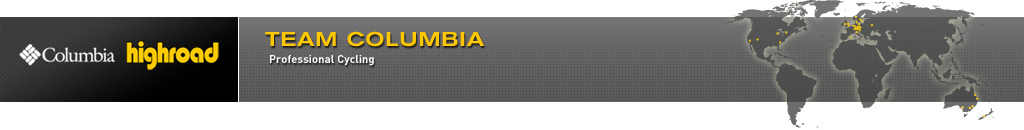
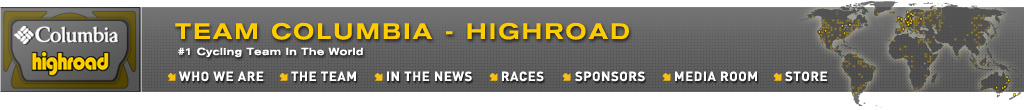
New Look with new nav buttons to match main site

diff --git a/assets/main.css b/assets/main.css
@@ -222,13 +222,19 @@ height:80px;
 
 #header {
 	width: 100%;
-	height: 130px;
+	height: 133px;
 	position:relative;
 	overflow:hidden;
 }
 
+#nav_topright{
+	height:17px;
+	padding-right:20px;
+	text-align:right;
+}
+
 #logo {
-	width: 236px;
+	width: 142px;
 	height: 100px;
 	display: block;
 	float: left;
@@ -243,9 +249,10 @@ height:80px;
 
 #nav {
 	width: 1024px;
-	height: 130px;
-	margin: 3px auto 0 auto;
-	background:#fff url( nav_bg.jpg) no-repeat;
+	height: 133px;
+	margin: 0px auto 0 auto;
+	background:#fff url(nav_bg.jpg) no-repeat;
+	background-position: 0px 17px;
 }
 
 #nav_container{
@@ -255,11 +262,11 @@ height:80px;
 
 #nav_bg_left, #nav_bg_right{
 	position:absolute;
-	top:3px;
+	top:7px;
 }
 
 #nav_bg_left{
-	background: url( nav_bg_tile_left.gif) top right repeat-x;
+	background: url(nav_bg_tile_right.gif) top right repeat-x;
 	right:50%;
 	width:50%;
 	margin-right:512px;
@@ -267,16 +274,18 @@ height:80px;
 }
 
 #nav_bg_right{
-	background: url( nav_bg_tile_right.gif) top left repeat-x;
+	background: url(nav_bg_tile_right.gif) top left repeat-x;
 	left:50%;
 	width:50%;
-	margin-left:511px;
+	margin-left:512px;
 	height:120px;
 }
 
 
 #nav_buttons {
-	padding: 76px 0 0 239px;
+	position:relative;
+	top:62px;
+	left:155px;
 }
 
 #nav_buttons div {
@@ -284,49 +293,34 @@ height:80px;
 }
 
 #nav_buttons a {
+	background-image: url(button_bar.jpg);	
 	display:block;
+	background-repeat:no-repeat;
+	background-position: 0px -100px;
 	height: 26px;
+
 }
 
-#nav_buttons a:hover, #nav_buttons .active {
-	background-position: 0 -26px;
-}
+#nav-mission { width:116px; }
+#nav-mission:hover { background-position: 11px 7px; }
 
-#nav-contact {
-	background-image: url( contact.jpg);
-	width:95px;
-}
+#nav-team {	width:96px; }
+#nav-team:hover { background-position: -105px 7px; }
 
-#nav-mission {
-	background-image: url( mission.jpg);
-	width:91px;
-}
+#nav-news { width:114px; }
+#nav-news:hover { background-position: -201px 7px; }
 
-#nav-news {
-	background-image: url( news.jpg);
-	width:75px;
-}
+#nav-races { width:72px; }
+#nav-races:hover { background-position: -315px 7px;}
 
-#nav-partners {
-	background-image: url( partners.jpg);
-	width:104px;
-}
+#nav-partners {	width:101px; }
+#nav-partners:hover { background-position: -387px 7px;}
 
-#nav-team {
-	background-image: url( team.jpg);
-	width:76px;
-}
+#nav-mediaroom { width:110px; }
+#nav-mediaroom:hover { background-position: -488px 7px;}
 
-#nav-tour {
-	background-image: url( tdf.jpg);
-	width:150px;
-}
-
-#nav-store {
-	width: 81px;
-	background-image: url( store.jpg);
-}
-
+#nav-store { width: 78px; }
+#nav-store:hover { background-position: -598px 7px; }
 
 
 /* Footer
